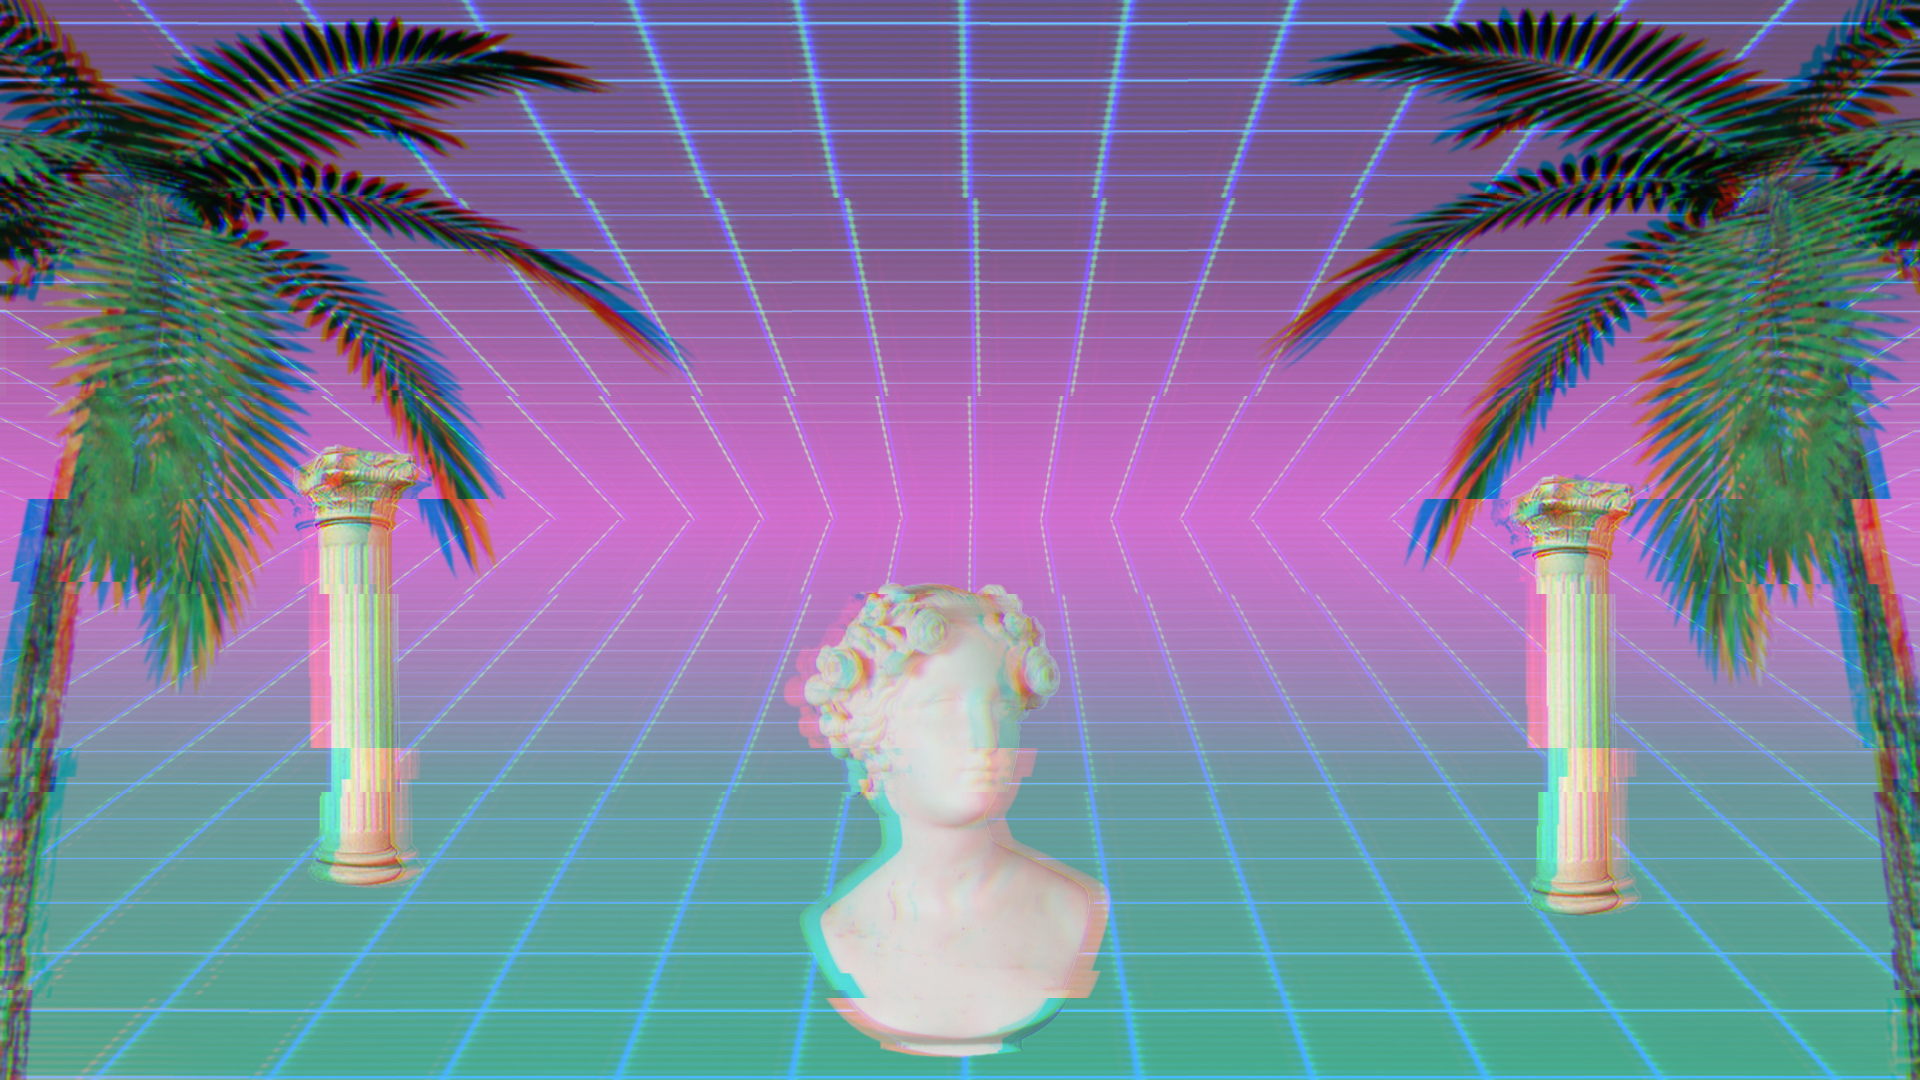
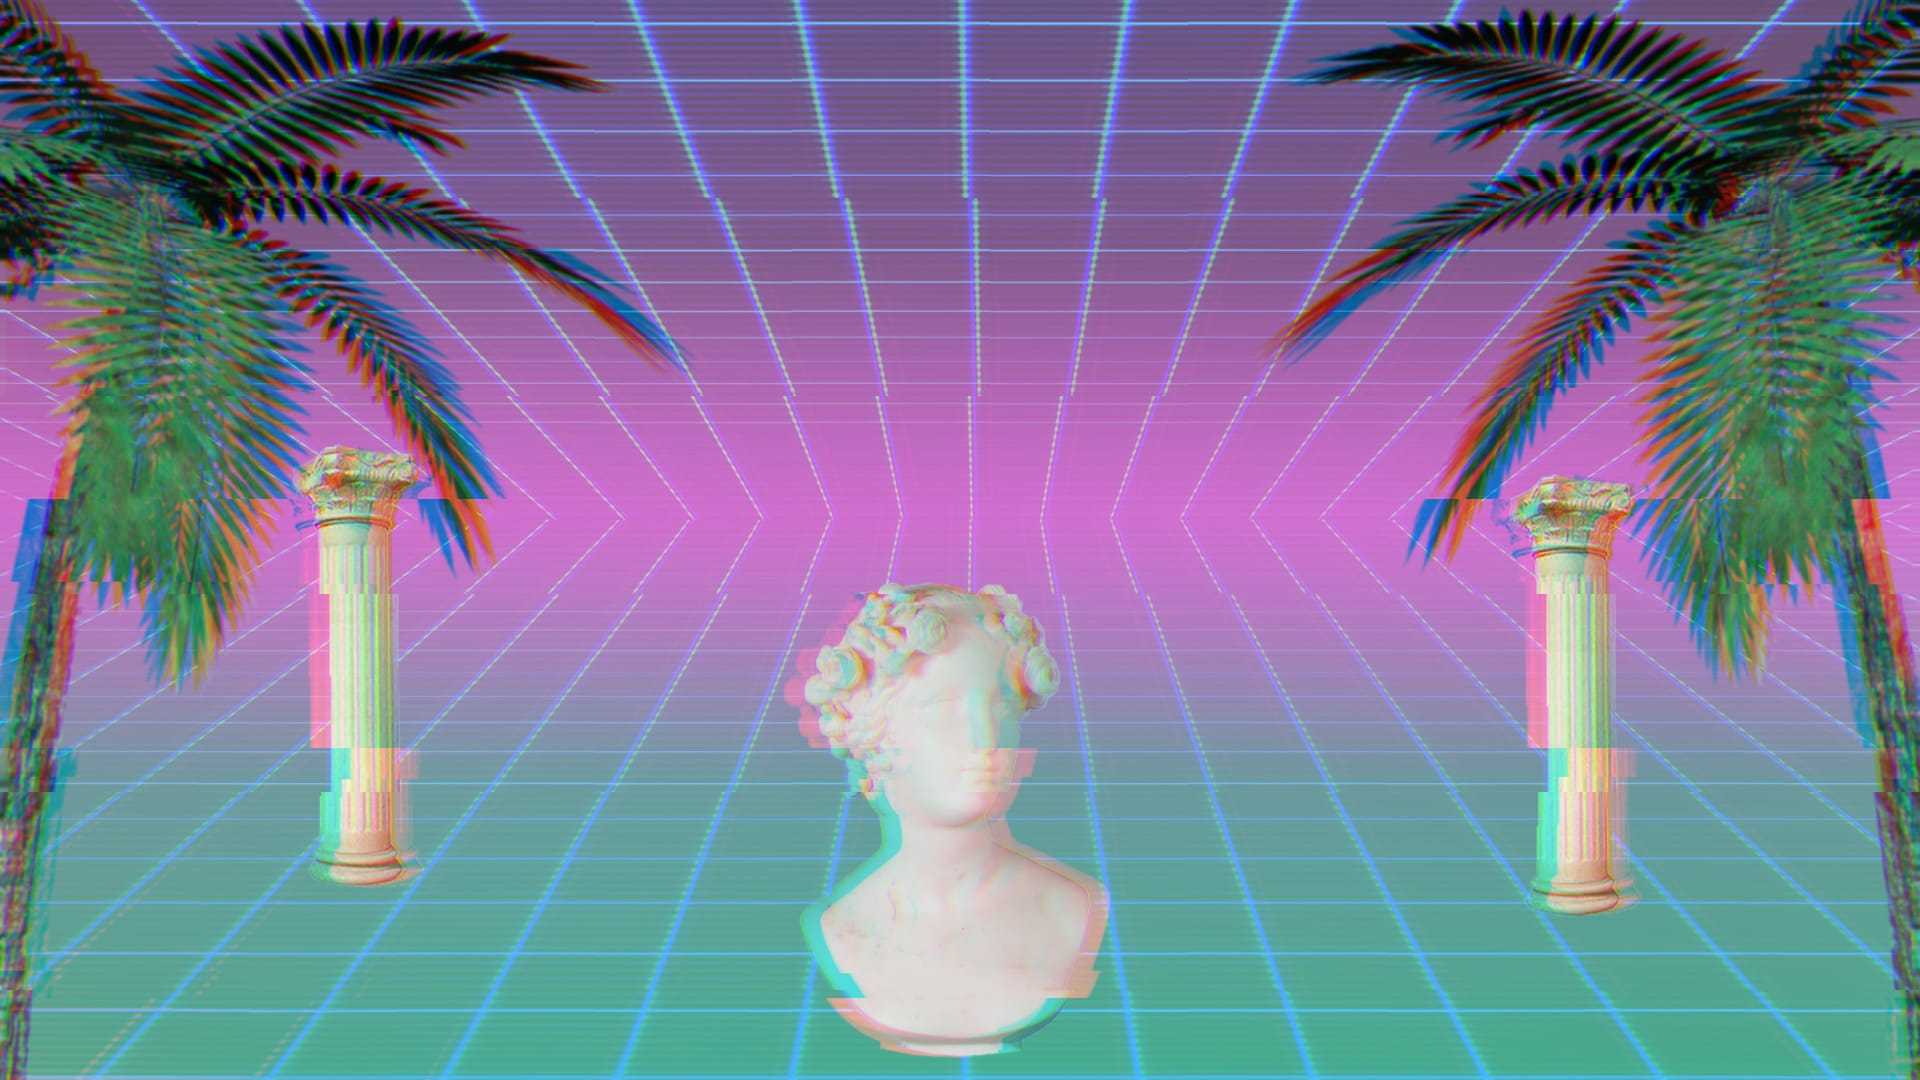
Compress image and add fallback background-color.

diff --git a/css/style.css b/css/style.css
@@ -1,13 +1,6 @@
  body {
-  background: rgba(230,143,226,1);
-  background: -moz-linear-gradient(top, rgba(230,143,226,1) 0%, rgba(73,170,141,1) 100%);
-  background: -webkit-gradient(left top, left bottom, color-stop(0%, rgba(230,143,226,1)), color-stop(100%, rgba(73,170,141,1)));
-  background: -webkit-linear-gradient(top, rgba(230,143,226,1) 0%, rgba(73,170,141,1) 100%);
-  background: -o-linear-gradient(top, rgba(230,143,226,1) 0%, rgba(73,170,141,1) 100%);
-  background: -ms-linear-gradient(top, rgba(230,143,226,1) 0%, rgba(73,170,141,1) 100%);
-  background: linear-gradient(to bottom, rgba(230,143,226,1) 0%, rgba(73,170,141,1) 100%);
-  filter: progid:DXImageTransform.Microsoft.gradient( startColorstr='#e68fe2', endColorstr='#49aa8d', GradientType=0 );
-
+  background-color: rgba(230,143,226,1);
+  
   background-image: url(../vaporwave.jpg);
   background-position: center center;
   background-repeat: no-repeat;
